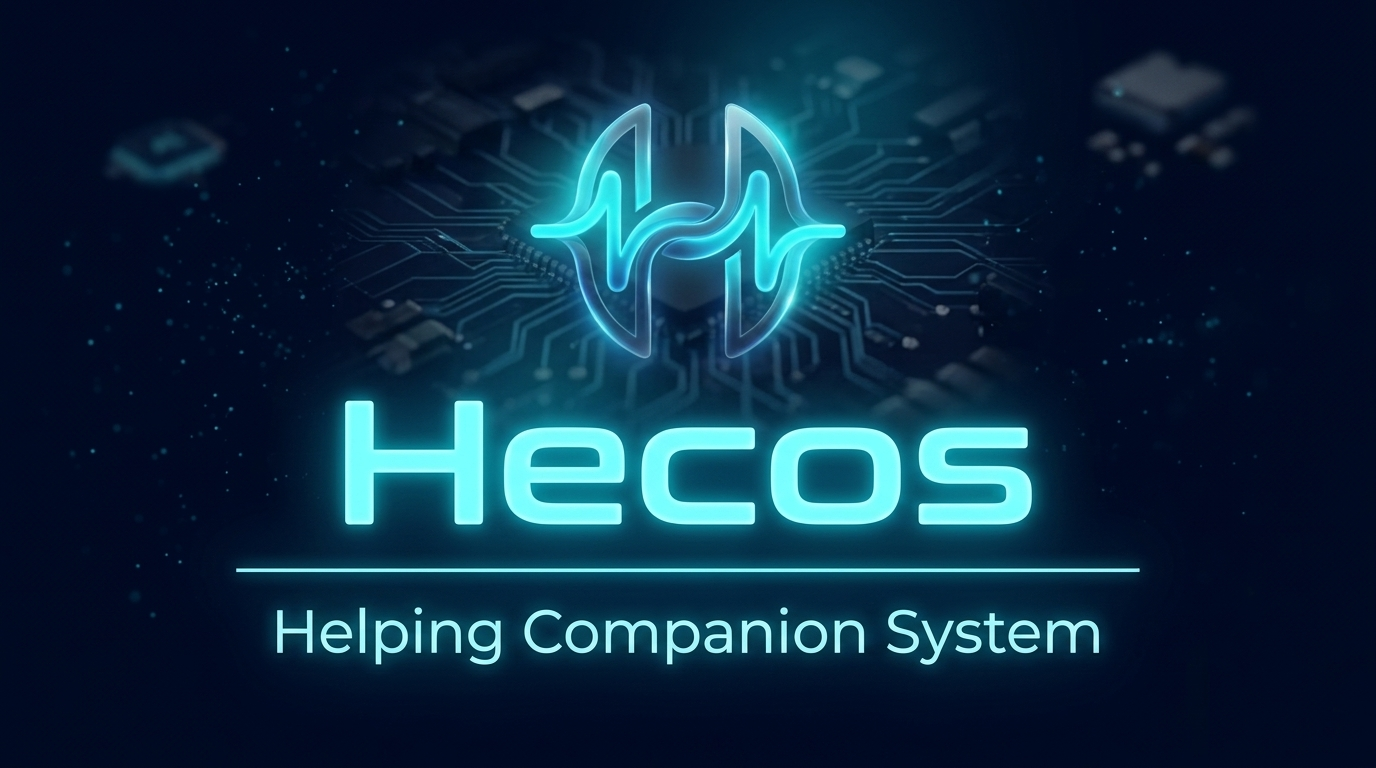
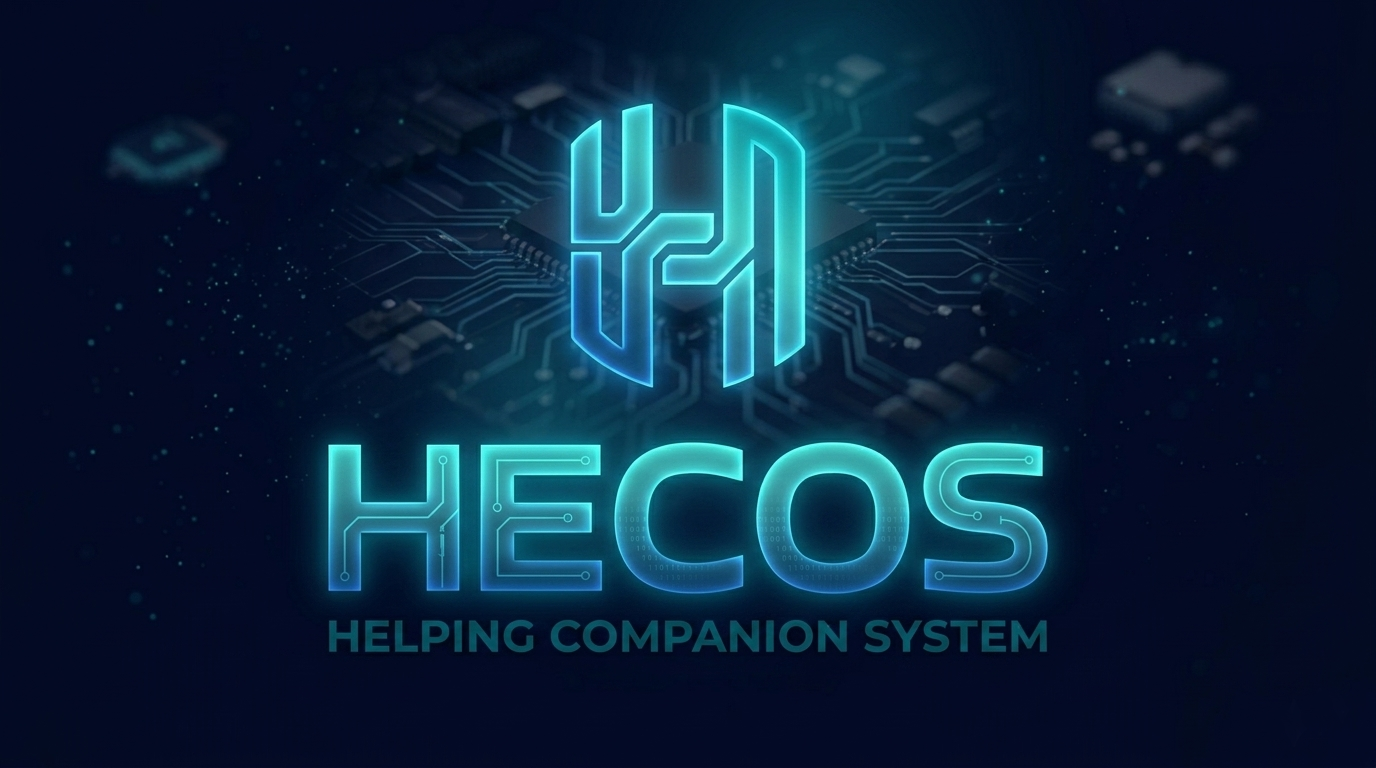
Website update

Changed region(s): [[0.1562, 0.125, 0.8438, 0.875]]

diff --git a/index.html b/index.html
@@ -4,21 +4,21 @@
     <meta charset="UTF-8">
     <meta name="viewport" content="width=device-width, initial-scale=1.0">
     <title>Hecos Core | Helping Companion System</title>
-    <meta name="description" content="Hecos Core: Helping Companion System. A native modular AI ecosystem focusing on total privacy, extreme speed, and local-first execution on your hardware.">
+    <meta name="description" content="Hecos Core: Helping Companion System. A native modular AI Operating Layer focusing on total privacy, extreme speed, and local-first execution on your hardware.">
     <meta name="keywords" content="Hecos Core, Local AI, Autonomous Agent, Modular AI, Privacy AI, Cybernetic Agent, Python Sandbox">
     
     <!-- Open Graph / Facebook -->
     <meta property="og:type" content="website">
     <meta property="og:url" content="https://hecos-project.github.io/">
     <meta property="og:title" content="Hecos Core | Helping Companion System">
-    <meta property="og:description" content="Hecos Core: Helping Companion System. Experience a private, native modular AI ecosystem that lives on your hardware. Privacy. Speed. Simplicity.">
+    <meta property="og:description" content="Hecos Core: Helping Companion System. Experience a private, native modular AI Operating Layer that lives on your hardware. Privacy. Speed. Simplicity.">
     <meta property="og:image" content="https://hecos-project.github.io/assets/images/og-preview.png?v=2">
 
     <!-- Twitter -->
     <meta property="twitter:card" content="summary_large_image">
     <meta property="twitter:url" content="https://hecos-project.github.io/">
     <meta property="twitter:title" content="Hecos Core | Helping Companion System">
-    <meta property="twitter:description" content="Hecos Core: Helping Companion System. Experience a private, native modular AI ecosystem that lives on your hardware. Privacy. Speed. Simplicity.">
+    <meta property="twitter:description" content="Hecos Core: Helping Companion System. Experience a private, native modular AI Operating Layer that lives on your hardware. Privacy. Speed. Simplicity.">
     <meta property="twitter:image" content="https://hecos-project.github.io/assets/images/og-preview.png?v=2">
     
     <link rel="canonical" href="https://hecos-project.github.io/">
@@ -31,14 +31,14 @@
       "@type": "SoftwareApplication",
       "name": "Hecos Core",
       "operatingSystem": "Windows, Linux, MacOS",
-      "applicationCategory": "AI Operating System",
+      "applicationCategory": "AI Operating Layer",
       "offers": {
         "@type": "Offer",
         "price": "0",
         "priceCurrency": "USD"
       },
       "description": "Hecos Core: Helping Companion System. A native modular AI ecosystem focusing on privacy, speed, and simplicity.",
-      "softwareVersion": "0.19.0"
+      "softwareVersion": "0.21.0"
     }
     </script>
     
@@ -70,13 +70,13 @@
         </div>
 
         <div class="warning-banner">
-            <p>🛡️ <strong>Runtime Alpha Status:</strong> Hecos Core is currently in `v0.19.0`. It is a stable Local AI Operating Layer that connects high-level reasoning with root-level system execution.</p>
+            <p>🛡️ <strong>Runtime Alpha Status:</strong> Hecos Core is currently in `v0.21.0`. It is a stable Local AI Operating Layer that connects high-level reasoning with root-level system execution.</p>
         </div>
 
         <section class="hero">
             <h1 class="glitch" data-text="HECOS">HECOS</h1>
-            <p>The Native Modular AI Operating System. Privacy. Speed. Simplicity.</p>
-            <p style="font-size: 1.1rem; max-width: 800px; margin-top: -20px;">A local-first AI ecosystem that bridges intelligence with system execution. Total control, zero cloud, extreme performance.</p>
+            <p>The Native Modular AI Operating Layer. Privacy. Speed. Simplicity.</p>
+            <p style="font-size: 1.1rem; max-width: 800px; margin-top: -20px;">A <strong>Helping Companion System</strong> that bridges intelligence with system execution. Total control, zero cloud, extreme performance.</p>
             
             <div class="video-container">
                 <iframe width="100%" height="auto" src="https://www.youtube.com/embed/videoseries?list=UUnYZJBZygXd4cIgLsZ_eHwA" title="Hecos Core Latest Video" frameborder="0" allow="accelerometer; autoplay; clipboard-write; encrypted-media; gyroscope; picture-in-picture" allowfullscreen></iframe>
@@ -102,8 +102,8 @@
             <h2 class="section-title glitch" data-text="WHY HECOS?">WHY HECOS?</h2>
             <div class="grid">
                 <div class="card">
-                    <h3>AI OS vs Agent</h3>
-                    <p>Hecos isn't just an agent; it's the <strong>Operating Environment</strong>. It manages resources, drivers, and cognitive profiles, allowing multiple agents to coexist and operate in a unified system.</p>
+                    <h3>Operating Layer vs Agent</h3>
+                    <p>Hecos isn't just an agent; it's the <strong>Operating Layer</strong>. It manages resources, drivers, and cognitive profiles, allowing multiple agents to coexist and operate in a unified system.</p>
                 </div>
                 <div class="card" style="border-left: 4px solid var(--neon-cyan);">
                     <h3>Modular Tiering</h3>
@@ -148,7 +148,7 @@
                 <a href="https://github.com/Hecos-Project/hecos-project.github.io" target="_blank">GitHub</a>
                 <a href="https://github.com/Hecos-Project/Hecos" target="_blank">Software Source</a>
             </div>
-            <p>Hecos Core – Agentic OS (AGPL v3)</p>
+            <p>Hecos Core – Agentic Operating Layer (AGPL v3)</p>
             <p>Contact: <a href="mailto:[email redacted]" style="color: var(--neon-cyan); text-decoration: none;">[email redacted]</a></p>
             <p style="margin-top: 10px;">Made with ❤️ for digital freedom.</p>
         </footer>

diff --git a/features.html b/features.html
@@ -85,7 +85,7 @@
                 <a href="https://github.com/Hecos-Project/hecos-project.github.io" target="_blank">GitHub</a>
             </div>
             <a href="index.html" class="btn">Back to Home</a>
-            <p style="margin-top: 20px;">Hecos Core – Agentic OS (AGPL v3)</p>
+            <p style="margin-top: 20px;">Hecos Core – Agentic Operating Layer (AGPL v3)</p>
             <p>Contact: <a href="mailto:[email redacted]" style="color: var(--neon-cyan); text-decoration: none;">[email redacted]</a></p>
         </footer>
     </div>